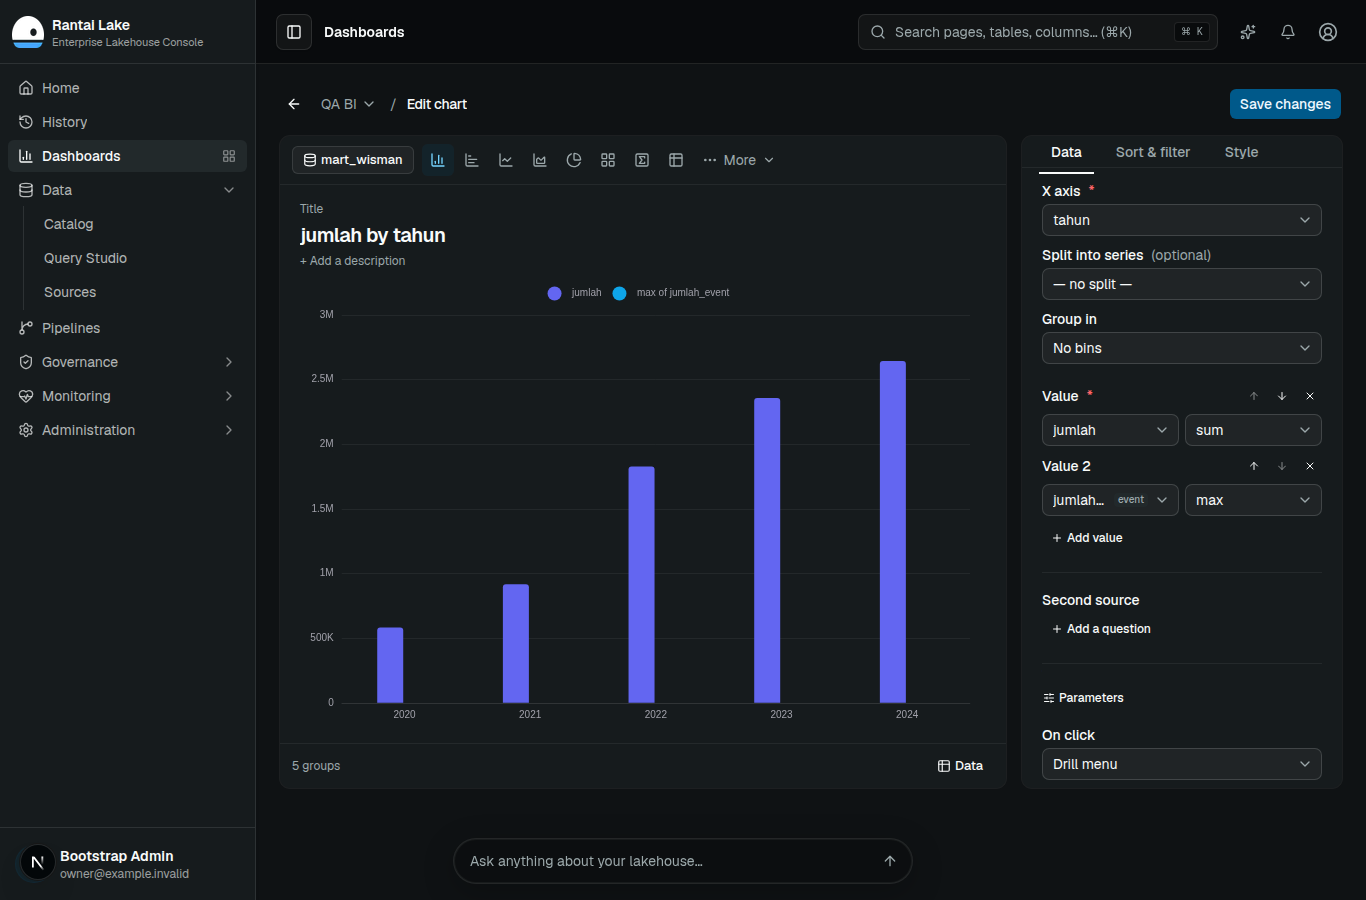
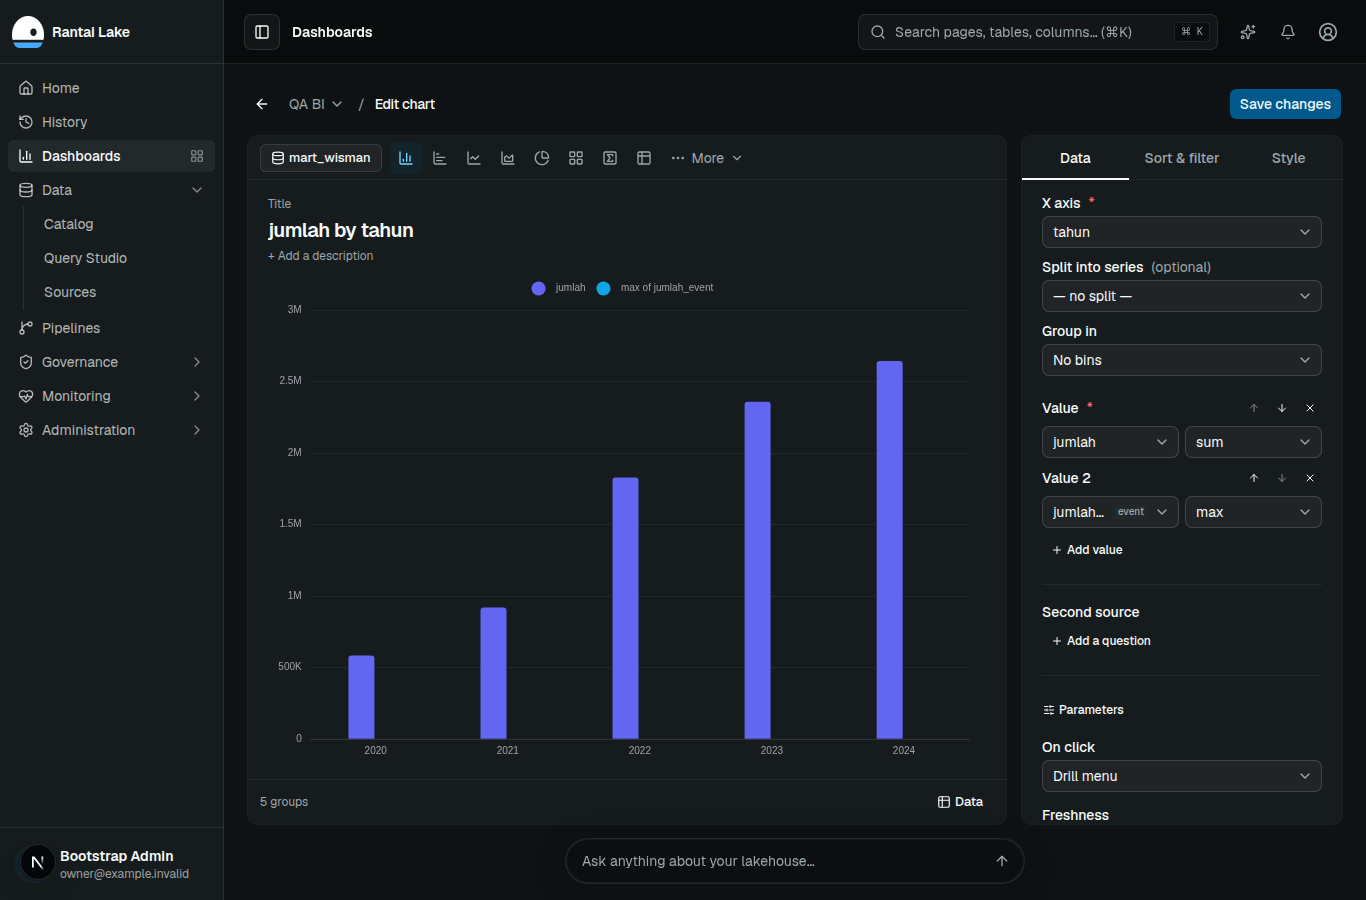
BI-58 review round 2 docs(plan): handoff, and the re-taken screenshots
The review-data, review-style and review-style-axes screenshots at 1366x900,
light and dark, and review-sidebar-1366x900-dark, re-taken on the preview
after the sidebar (8f625135) and composer (c4d87211) commits.

712caad2 holds SHOULD-FIX 7 (`ZONE_HEADER`, the shared 44 px height), not 6;
1ab47ac4 is SHOULD-FIX 6. History is left as it is; the handoff says so.

diff --git a/docs/superpowers/plans/2026-11-14-bi-58-chart-builder-layout.md b/docs/superpowers/plans/2026-11-14-bi-58-chart-builder-layout.md
@@ -377,3 +377,48 @@ shots show the new one.
 **Not verified:** the full `bun run test` (CI); a real iPhone Safari check; the discard confirm on the
 live preview (covered by the tests only). `AGENTS.md` still carries the uncommitted block `next dev`
 writes, and `.preview-dev.log` (the planner's preview log) is untracked; neither is committed.
+
+### Handoff, BI-58 review round 2 (Opus developer agent, 2026-11-14)
+
+**Commits:**
+- `1ab47ac4` SHOULD-FIX 6, the tab row: equal thirds, a full-width divider, the sliding underline, and the test.
+- `712caad2` SHOULD-FIX 7's code: `ZONE_HEADER`, the shared 44 px height.
+- `5bdab0bc` SHOULD-FIX 7's test and its measurement.
+- `8f625135` the app shell's sidebar at 14rem, without the subtitle.
+- `c4d87211` the composer, centred on the content area, with one shared bottom token.
+- The commit of this entry adds the screenshots.
+
+**History note (not rewritten):** `712caad2` holds SHOULD-FIX 7 (`ZONE_HEADER`, the shared 44 px height),
+not 6 as its message says; `1ab47ac4` is SHOULD-FIX 6. A second session committed it while this one
+was working. The final tree has each fix once, and tests cover both: equal tabs in the R3 tab test,
+the shared height in the zones test.
+
+**Checks on `c4d87211`**, each run alone with `nice -n 15` under `systemd-run --user --scope -p MemoryMax=3G -p MemorySwapMax=0`:
+- `bun test` on 23 files (the builder's 20 plus the 3 app-shell tests): **273 pass, 0 fail, 1,370 expect() calls**;
+- `bun run typecheck`: **0 errors**;
+- `bun run lint`: **0 errors, 11 warnings** (the existing 11);
+- `bun run test` in full: **not verified (CI)**.
+
+**Measured on the preview at 28620** over CDP, using `getBoundingClientRect`:
+
+| Check | 1366x900 | 1190x800 |
+| --- | --- | --- |
+| Divider bottoms: canvas toolbar / inspector tabs | 180 / 180 | 180 / 180 |
+| Card tops / bottoms | 136 / 788 | 136 / 688 |
+| Composer centre / content centre | 795 / 795 | 707 / 707 |
+| Gap between the zones and the composer | 14 px | 14 px |
+| Page scroll | none | none |
+
+- Card tops and bottoms were measured before the composer change. After it, the zones end 14 px
+  above the composer, at 824 (1366x900) and 724 (1190x800).
+- With the sidebar collapsed to icons, the composer centre and the content centre are both 707.
+- At 14rem (224 px) no sidebar label is cut off.
+
+**Screenshots:** `docs/plans/bi-58-screens/review-data-`, `review-style-` and `review-style-axes-`
+at `1366x900`, light and dark, and `review-sidebar-1366x900-dark.png`, all re-taken after the
+sidebar and composer changes. They were taken on 28620 with one headless Chrome of my own (its own
+profile folder), stopped by PID afterwards. No dev server was started or stopped.
+
+**Not verified:** the full suite (CI); a real iPhone Safari check; the phone drawer and the composer
+on a phone, beyond the code path (with no `--content-left` the composer is centred on the window as
+before).
